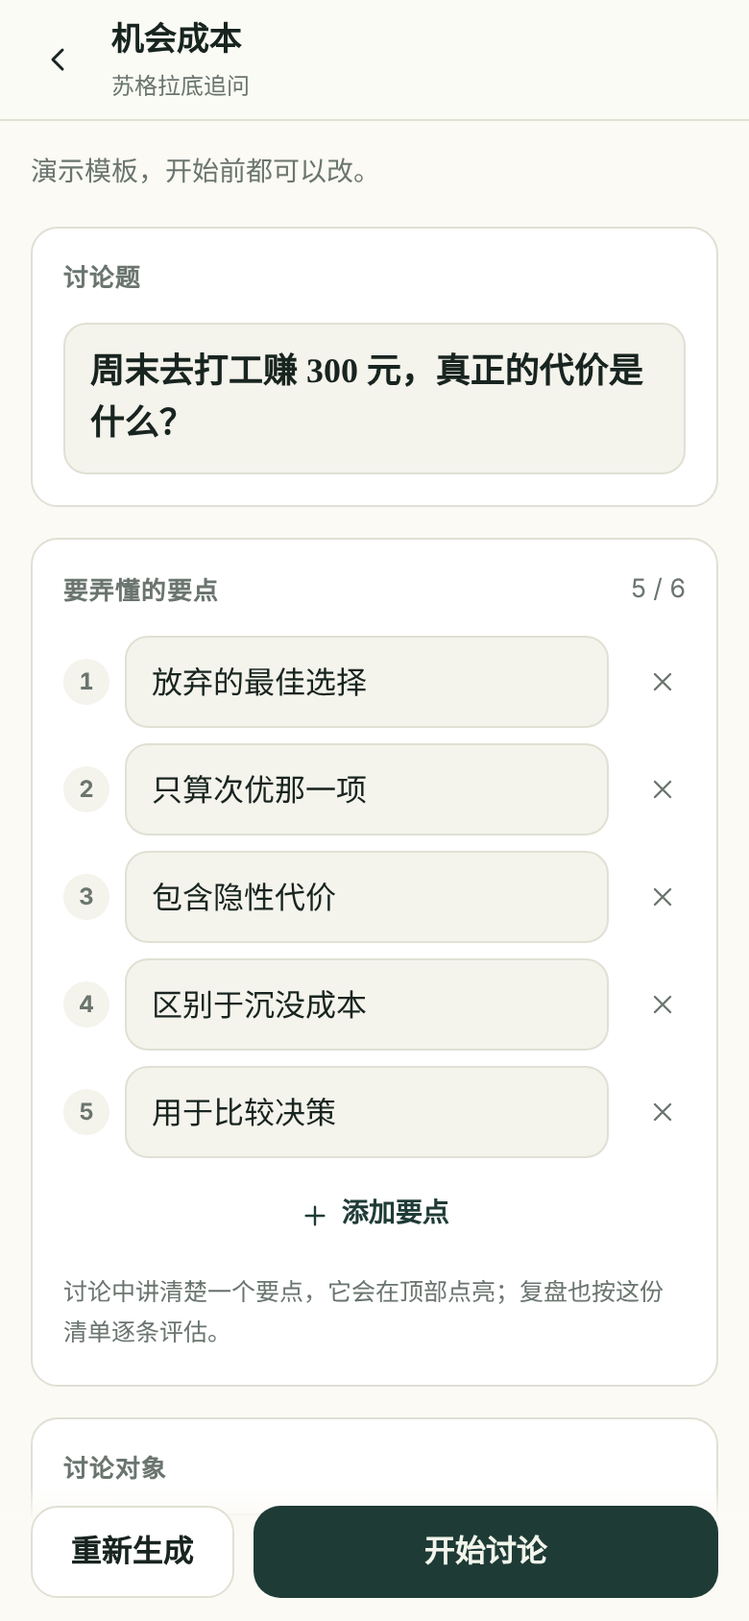
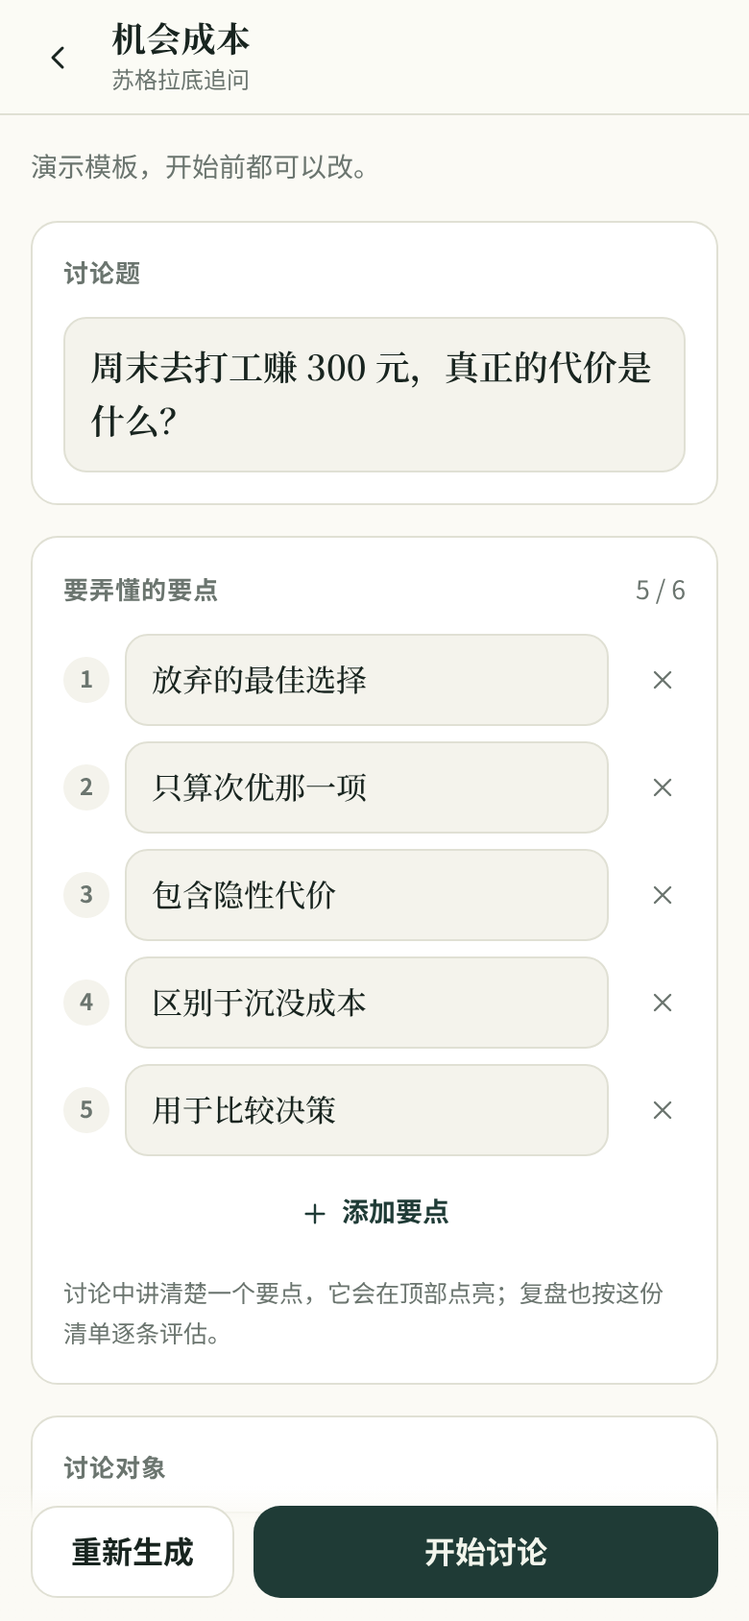
style: 输入框平滑光标；衬线与非衬线的分工
- 平滑光标（CaretField）：原生光标透明，用镜像元素量出光标位置，画一个会滑动、
  淡入淡出闪烁的光标；有选区或失去焦点时交还原生光标；尊重“减少动态效果”。
  用在讨论输入框、学习页的概念输入、小结卡。
- 字体分工：衬线只写“知识本身”（概念名、讨论题、要点、自己的小结、复盘结论、
  术语词条、检验题），对话和界面用无衬线。讨论题在讨论记录里像写在黑板上的题目。
- 字体栈补上安卓的 Noto Sans / Serif CJK SC；建立字号阶梯（--t-*）和衬线行距（--lh-serif）。
- 小结输入框字号从 15px 调到 16px（避免手机缩放）。
- 重新截取文档截图；AGENTS.md 记下字体分工和平滑光标的用法。

Closes #31

Claude-Session: https://claude.ai/code/session_01RzFBQam7wxXkvvADZrf93f

diff --git a/src/styles.css b/src/styles.css
@@ -22,8 +22,13 @@
   --warn: #8A5F12; --warn-soft: #F6EBD3;
   --bad: #A2432D; --bad-soft: #F7E0D8;
   --shadow: 0 1px 2px rgb(24 36 31 / 6%), 0 8px 24px rgb(24 36 31 / 6%);
-  --f-body: "PingFang SC", "HarmonyOS Sans SC", "MiSans", "Noto Sans SC", "Microsoft YaHei", system-ui, sans-serif;
-  --f-display: "Noto Serif SC", "Source Han Serif SC", "Songti SC", "STSong", serif;
+  /* 字体分工：衬线（宋体）写“知识本身”——概念、讨论题、要点、自己的小结、复盘结论、术语、检验题；
+     无衬线（黑体）写对话和界面。只用系统字体：App 要离线可用。Noto * CJK SC 是安卓上的名字。 */
+  --f-body: "PingFang SC", "HarmonyOS Sans SC", "MiSans", "Noto Sans CJK SC", "Noto Sans SC", "Source Han Sans SC", "Microsoft YaHei", system-ui, sans-serif;
+  --f-display: "Noto Serif CJK SC", "Noto Serif SC", "Source Han Serif SC", "Songti SC", "STSong", "SimSun", serif;
+  /* 字号阶梯（约 1.2 倍）；衬线正文比无衬线多一点行距 */
+  --t-xs: 12.5px; --t-sm: 14px; --t-md: 16px; --t-lg: 18px; --t-xl: 22px; --t-2xl: 28px; --t-3xl: 34px;
+  --lh-sans: 1.65; --lh-serif: 1.85;
   --r: 14px;
   --tab-h: 62px;
   color-scheme: light;
@@ -73,7 +78,7 @@ code { font-size: .9em; background: var(--bg); padding: 1px 5px; border-radius: 
 .session-top .topbar { position: static; border-bottom: 0; background: transparent; backdrop-filter: none; }
 .topbar-pad { width: 44px; }
 .topbar-title { min-width: 0; padding-block: 8px; }
-.topbar-title h1 { font-size: 17px; font-weight: 650; white-space: nowrap; overflow: hidden; text-overflow: ellipsis; }
+.topbar-title h1 { font: 650 var(--t-lg)/1.35 var(--f-display); letter-spacing: .01em; white-space: nowrap; overflow: hidden; text-overflow: ellipsis; }
 .topbar-title p { font-size: 12px; color: var(--muted); white-space: nowrap; overflow: hidden; text-overflow: ellipsis; }
 .topbar-right { display: flex; gap: 4px; align-items: center; padding-right: 4px; }
 
@@ -107,6 +112,11 @@ code { font-size: .9em; background: var(--bg); padding: 1px 5px; border-radius: 
 .panel { background: var(--raised); border: 1px solid var(--line); border-radius: var(--r); padding: 16px; display: flex; flex-direction: column; gap: 12px; }
 .section-label { font-size: 13px; font-weight: 650; color: var(--muted); letter-spacing: .04em; }
 .lede { color: var(--muted); font-size: 14px; }
+.lede.topic { color: var(--ink); font: var(--t-md)/var(--lh-serif) var(--f-display); }
+/* 讨论题像写在黑板上的题目：居中、衬线，上面一行小字说明这是什么 */
+.topic-line { align-self: center; max-width: 34em; text-align: center; display: flex; flex-direction: column; gap: 4px; padding: 6px 12px 10px; }
+.topic-line small { font-size: var(--t-xs); color: var(--muted); letter-spacing: .08em; }
+.topic-line p { font: 600 var(--t-lg)/1.6 var(--f-display); text-wrap: balance; }
 .fineprint { font-size: 12.5px; color: var(--muted); line-height: 1.7; }
 .note { font-size: 13px; color: var(--muted); line-height: 1.7; }
 input, textarea, select { width: 100%; border: 1px solid var(--line); background: var(--bg); border-radius: 12px; padding: 11px 13px; font-size: 16px; line-height: 1.5; }
@@ -144,8 +154,8 @@ input:focus, textarea:focus, select:focus { outline: none; border-color: var(--b
 .brand { display: flex; align-items: center; gap: 8px; font-weight: 700; letter-spacing: .12em; font-size: 17px; }
 .brand-mark { display: grid; place-items: center; width: 30px; height: 30px; border-radius: 9px 9px 9px 3px; background: var(--brand); color: var(--brand-ink); font-family: var(--f-display); font-size: 20px; letter-spacing: 0; }
 .hero { display: flex; flex-direction: column; gap: 14px; padding-top: 8px; }
-.display { font: 700 32px/1.25 var(--f-display); letter-spacing: .02em; text-wrap: balance; }
-.concept-field input { font-size: 20px; padding: 15px 16px; background: var(--raised); border-radius: 16px; box-shadow: var(--shadow); border-color: transparent; }
+.display { font: 700 var(--t-3xl)/1.22 var(--f-display); letter-spacing: .03em; text-wrap: balance; }
+.concept-field input { font: 600 var(--t-xl)/1.4 var(--f-display); letter-spacing: .02em; padding: 15px 16px; background: var(--raised); border-radius: 16px; box-shadow: var(--shadow); border-color: transparent; }
 .chips { padding-bottom: 2px; }
 .chip { flex: none; font-size: 13px; padding: 6px 13px; border-radius: 20px; border: 1px solid var(--line); color: var(--muted); background: var(--surface); }
 .chip.on { border-color: var(--brand); color: var(--brand); background: color-mix(in srgb, var(--brand) 8%, var(--surface)); }
@@ -163,7 +173,8 @@ input:focus, textarea:focus, select:focus { outline: none; border-color: var(--b
 .banner.warm { background: var(--accent-soft); color: var(--accent); }
 
 /* ---------- 准备页 ---------- */
-.topic-input { font: 600 18px/1.55 var(--f-display); background: var(--bg); }
+.topic-input { font: 600 var(--t-lg)/1.6 var(--f-display); background: var(--bg); }
+.point-edit input { font: 500 var(--t-md)/1.5 var(--f-display); }
 .point-edit, .stage-list { list-style: none; margin: 0; padding: 0; display: flex; flex-direction: column; gap: 8px; }
 .point-edit li { display: flex; align-items: center; gap: 8px; }
 .num { flex: none; width: 24px; height: 24px; border-radius: 50%; display: grid; place-items: center; background: var(--bg); color: var(--muted); font-size: 12px; font-weight: 650; font-variant-numeric: tabular-nums; }
@@ -229,9 +240,9 @@ input:focus, textarea:focus, select:focus { outline: none; border-color: var(--b
 .reflect { border-radius: var(--r); padding: 14px; background: color-mix(in srgb, var(--lit) 60%, var(--raised)); border: 1px solid color-mix(in srgb, var(--lit-ink) 25%, transparent); display: flex; flex-direction: column; gap: 10px; }
 .reflect h3 { font: 700 16px var(--f-display); color: var(--lit-ink); }
 .reflect p { font-size: 14px; }
-.reflect textarea { background: var(--raised); font-size: 15px; }
-.reflect .mine { font-size: 15px; }
-.reflect .mine::before { content: "我的小结："; color: var(--muted); }
+.reflect textarea { background: var(--raised); font: var(--t-md)/var(--lh-serif) var(--f-display); }
+.reflect .mine { font: var(--t-md)/var(--lh-serif) var(--f-display); }
+.reflect .mine::before { content: "我的小结："; color: var(--muted); font: var(--t-sm) var(--f-body); }
 .reflect .feedback { background: var(--raised); border-radius: 10px; padding: 10px 12px; line-height: 1.75; }
 
 .composer { position: sticky; bottom: 0; z-index: 15; display: flex; flex-direction: column; gap: 8px; padding: 10px max(12px, env(safe-area-inset-right, 0px)) calc(10px + env(safe-area-inset-bottom, 0px)) max(12px, env(safe-area-inset-left, 0px)); background: color-mix(in srgb, var(--surface) 94%, transparent); backdrop-filter: blur(12px); border-top: 1px solid var(--line); }
@@ -247,6 +258,18 @@ input:focus, textarea:focus, select:focus { outline: none; border-color: var(--b
 .tool { flex: none; display: inline-flex; align-items: center; gap: 5px; font-size: 13px; padding: 6px 11px; border-radius: 18px; background: var(--bg); border: 1px solid var(--line); color: var(--ink); }
 .input-row { display: flex; align-items: flex-end; gap: 8px; }
 .input-row textarea { min-height: 46px; max-height: 160px; border-radius: 22px; padding: 11px 16px; background: var(--raised); }
+
+/* ---------- 平滑光标 ---------- */
+.caret-host { position: relative; display: block; min-width: 0; }
+.caret-host.grow { flex: 1; display: flex; }
+.caret-hidden { caret-color: transparent; }
+.smooth-caret { position: absolute; top: 0; left: 0; width: 2px; border-radius: 1px; background: var(--brand); pointer-events: none; opacity: 0;
+  transition: transform .11s cubic-bezier(.2, .8, .2, 1), height .11s; animation: caret-blink 1.1s ease-in-out infinite; }
+.smooth-caret.on { opacity: 1; }
+.smooth-caret.moving { animation: none; }
+.smooth-caret:not(.on) { animation: none; opacity: 0; transition: none; }
+@keyframes caret-blink { 0%, 45% { opacity: 1; } 60%, 85% { opacity: 0; } 100% { opacity: 1; } }
+@media (prefers-reduced-motion: reduce) { .smooth-caret { transition: none; animation: none; } }
 .send { flex: none; width: 46px; height: 46px; border-radius: 50%; display: grid; place-items: center; background: var(--brand); color: var(--brand-ink); }
 
 /* 底部操作面板 */
@@ -256,8 +279,10 @@ input:focus, textarea:focus, select:focus { outline: none; border-color: var(--b
 .sheet-grip { width: 36px; height: 4px; border-radius: 2px; background: var(--line); align-self: center; }
 .sheet-head { display: flex; justify-content: space-between; align-items: center; }
 .sheet-head h2 { font-size: 17px; }
+.term-sheet .sheet-head h2 { font: 650 var(--t-xl)/1.3 var(--f-display); letter-spacing: .03em; }
+.term-sheet .sheet-text { font: var(--t-md)/var(--lh-serif) var(--f-display); }
 .sheet-text { font-size: 15.5px; line-height: 1.8; }
-.quote { margin: 0; padding: 8px 12px; border-left: 3px solid var(--line); color: var(--muted); font-size: 14px; line-height: 1.7; background: var(--bg); border-radius: 0 10px 10px 0; }
+.quote { margin: 0; padding: 8px 12px; border-left: 3px solid var(--line); color: var(--muted); font: var(--t-sm)/1.8 var(--f-display); background: var(--bg); border-radius: 0 10px 10px 0; }
 .action-list { display: flex; flex-direction: column; border: 1px solid var(--line); border-radius: var(--r); overflow: hidden; background: var(--raised); }
 .action { display: flex; justify-content: space-between; align-items: center; min-height: 52px; padding: 0 14px; font-size: 16px; text-align: left; border-top: 1px solid var(--line); }
 .action:first-child { border-top: 0; }
@@ -269,7 +294,7 @@ input:focus, textarea:focus, select:focus { outline: none; border-color: var(--b
 /* ---------- 复盘与知识库 ---------- */
 .review-hero { display: flex; gap: 16px; align-items: center; padding: 6px 2px; }
 .review-hero.slim { padding: 0; }
-.display-sm { font: 600 18px/1.6 var(--f-display); text-wrap: pretty; }
+.display-sm { font: 600 var(--t-lg)/1.65 var(--f-display); text-wrap: pretty; }
 .review-hero small { display: block; margin-top: 6px; font-size: 12px; }
 .ring { flex: none; width: 84px; height: 84px; }
 .ring-track { fill: none; stroke: var(--bg); stroke-width: 8; }
@@ -279,6 +304,7 @@ input:focus, textarea:focus, select:focus { outline: none; border-color: var(--b
 .point-list { list-style: none; padding: 0; margin: 0; display: flex; flex-direction: column; gap: 12px; }
 .point-list li { display: grid; grid-template-columns: 56px 1fr; gap: 10px; align-items: baseline; }
 .point-list div { display: flex; flex-direction: column; }
+.point-list b { font: 600 var(--t-md)/1.5 var(--f-display); }
 .point-list span { font-size: 13px; color: var(--muted); }
 .pill { justify-self: start; font-size: 11.5px; font-weight: 650; padding: 2px 8px; border-radius: 6px; white-space: nowrap; }
 .pill.mastered { background: var(--good-soft); color: var(--good); }
@@ -291,7 +317,7 @@ input:focus, textarea:focus, select:focus { outline: none; border-color: var(--b
 .fix .right .icon { margin-top: 5px; color: var(--good); }
 .quiz { list-style: none; padding: 0; margin: 0; display: flex; flex-direction: column; gap: 20px; counter-reset: q; }
 .quiz li { display: flex; flex-direction: column; gap: 8px; counter-increment: q; }
-.quiz .q { font-weight: 600; font-size: 15px; }
+.quiz .q { font: 600 var(--t-md)/1.7 var(--f-display); }
 .quiz .q::before { content: counter(q) ". "; color: var(--muted); }
 .opts { display: flex; flex-direction: column; gap: 6px; }
 .opt { display: flex; gap: 10px; align-items: baseline; text-align: left; min-height: 46px; padding: 10px 14px; border-radius: 12px; border: 1px solid var(--line); background: var(--surface); font-size: 15px; }
@@ -348,7 +374,7 @@ input:focus, textarea:focus, select:focus { outline: none; border-color: var(--b
 .term-relation b { font-size: 12.5px; color: var(--muted); font-weight: 600; }
 .stack-sm { display: flex; flex-direction: column; gap: 8px; }
 .glossary { margin: 0; display: flex; flex-direction: column; gap: 12px; }
-.glossary dt { font-weight: 650; }
+.glossary dt { font: 650 var(--t-lg)/1.4 var(--f-display); letter-spacing: .02em; }
 .glossary dd { margin: 2px 0 0; font-size: 14px; line-height: 1.7; color: var(--ink); display: flex; flex-direction: column; gap: 2px; }
 .glossary dd small { color: var(--muted); font-size: 12.5px; }
 

diff --git a/src/components/SmoothCaret.tsx b/src/components/SmoothCaret.tsx
@@ -1,0 +1,83 @@
+// 平滑光标：输入框里的光标移动时滑过去，闪烁时淡入淡出（类似 VS Code 的 smooth caret）。
+// 浏览器的原生光标没法加动画，所以把它设成透明，再在同样的位置画一个。
+// 位置用“镜像元素”测量：复制输入框的排版样式，把光标前的文字放进去，量出光标所在的坐标。
+// 有选区、失去焦点时交还原生光标；尊重“减少动态效果”（直接跳到位置、不闪烁）。
+import { useCallback, useEffect, useRef, useState, type ReactNode, type RefObject } from 'react';
+
+type Field = HTMLTextAreaElement | HTMLInputElement;
+const COPY = ['boxSizing', 'width', 'borderTopWidth', 'borderRightWidth', 'borderBottomWidth', 'borderLeftWidth', 'borderStyle', 'paddingTop', 'paddingRight', 'paddingBottom', 'paddingLeft',
+  'fontStyle', 'fontVariant', 'fontWeight', 'fontStretch', 'fontSize', 'lineHeight', 'fontFamily', 'textAlign', 'textTransform', 'textIndent', 'letterSpacing', 'wordSpacing', 'tabSize', 'wordBreak'] as const;
+
+function measure(el: Field, pos: number) {
+  const cs = getComputedStyle(el);
+  const mirror = document.createElement('div');
+  const single = el.nodeName === 'INPUT';
+  for (const p of COPY) mirror.style[p] = cs[p];
+  Object.assign(mirror.style, { position: 'absolute', visibility: 'hidden', top: '0', left: '-9999px', height: 'auto', overflow: 'hidden', whiteSpace: single ? 'pre' : 'pre-wrap', overflowWrap: single ? 'normal' : 'break-word' });
+  mirror.textContent = el.value.slice(0, pos);
+  const mark = document.createElement('span');
+  mark.textContent = el.value.slice(pos, pos + 1) || '';
+  mirror.appendChild(mark);
+  document.body.appendChild(mirror);
+  const size = parseFloat(cs.fontSize);
+  const height = Math.max(size * 1.15, Math.min(mark.offsetHeight, size * 1.5));
+  const top = mark.offsetTop + (mark.offsetHeight - height) / 2;
+  const box = { x: mark.offsetLeft - el.scrollLeft, y: top - el.scrollTop, h: height };
+  mirror.remove();
+  return box;
+}
+
+export function useSmoothCaret(ref: RefObject<Field | null>) {
+  const [box, setBox] = useState<{ x: number; y: number; h: number; on: boolean; moving: boolean }>({ x: 0, y: 0, h: 0, on: false, moving: false });
+  const frame = useRef(0), rest = useRef<ReturnType<typeof setTimeout> | undefined>(undefined);
+  const sync = useCallback(() => {
+    cancelAnimationFrame(frame.current);
+    frame.current = requestAnimationFrame(() => {
+      const el = ref.current;
+      if (!el) return;
+      const focused = document.activeElement === el;
+      const collapsed = el.selectionStart !== null && el.selectionStart === el.selectionEnd;
+      el.classList.toggle('caret-hidden', focused && collapsed);
+      if (!focused || !collapsed) { setBox(b => ({ ...b, on: false })); return; }
+      const m = measure(el, el.selectionStart ?? 0);
+      // 超出可见区域时不画（例如滚动到别处）
+      const visible = m.y + m.h > 0 && m.y < el.clientHeight + 2 && m.x >= -1 && m.x <= el.clientWidth + 2;
+      setBox({ ...m, on: visible, moving: true });
+      clearTimeout(rest.current);
+      rest.current = setTimeout(() => setBox(b => ({ ...b, moving: false })), 450);
+    });
+  }, [ref]);
+
+  useEffect(() => {
+    const el = ref.current;
+    if (!el) return;
+    const events = ['input', 'keydown', 'keyup', 'pointerup', 'focus', 'blur', 'scroll', 'select', 'compositionupdate', 'compositionend'];
+    events.forEach(e => el.addEventListener(e, sync));
+    document.addEventListener('selectionchange', sync);
+    window.addEventListener('resize', sync);
+    const ro = typeof ResizeObserver === 'function' ? new ResizeObserver(sync) : null;
+    ro?.observe(el);
+    return () => {
+      events.forEach(e => el.removeEventListener(e, sync));
+      document.removeEventListener('selectionchange', sync);
+      window.removeEventListener('resize', sync);
+      ro?.disconnect();
+      cancelAnimationFrame(frame.current); clearTimeout(rest.current);
+      el.classList.remove('caret-hidden');
+    };
+  }, [ref, sync]);
+
+  return box;
+}
+
+// 包住一个输入框：<CaretField fieldRef={ref}><textarea ref={ref} … /></CaretField>
+export function CaretField({ fieldRef, className = '', children }: { fieldRef: RefObject<Field | null>; className?: string; children: ReactNode }) {
+  const box = useSmoothCaret(fieldRef);
+  return (
+    <span className={'caret-host ' + className}>
+      {children}
+      <i aria-hidden="true" className={'smooth-caret' + (box.on ? ' on' : '') + (box.moving ? ' moving' : '')}
+        style={{ transform: `translate3d(${box.x}px, ${box.y}px, 0)`, height: box.h }} />
+    </span>
+  );
+}

diff --git a/src/screens/Session.tsx b/src/screens/Session.tsx
@@ -3,6 +3,7 @@ import { MODES } from '../../shared/modes.ts';
 import type { ChatMessage, Entry, Reflection } from '../../shared/types.ts';
 import { QUICK, addReflection, aiTakeover, callOn, currentTurn, dropReflection, finish, generateSeat, hint, nextSpeaker, openTerm, passTurn, pickSeat, quick, retryAI, send, setReflectionDraft, skipSeat, startRoom, submitReflection } from '../actions.ts';
 import { Empty, ErrorBanner, Icon, Sheet } from '../components/ui.tsx';
+import { CaretField } from '../components/SmoothCaret.tsx';
 import { cancelAI } from '../lib/ai.ts';
 import { seatName } from '../lib/debate.ts';
 import { exportSession } from '../lib/exporter.ts';
@@ -81,7 +82,7 @@ export function Session() {
         </Sheet>
       )}
       {ui.term && (
-        <Sheet title={ui.term.term} onClose={() => update(st => { st.ui.term = null; })}>
+        <Sheet title={ui.term.term} className="term-sheet" onClose={() => update(st => { st.ui.term = null; })}>
           {ui.term.definition ? (
             <>
               <p className="sheet-text">{ui.term.definition}</p>
@@ -267,9 +268,11 @@ function DraftInput({ s, placeholder }: { s: S; placeholder: string }) {
   const submit = () => send(s.draft);
   return (
     <div className="input-row">
-      <textarea id="draft" ref={ref} rows={1} value={s.draft} maxLength={s.room ? 2000 : 4000} aria-label="你的发言" placeholder={placeholder}
-        onChange={e => update(st => { st.session!.draft = e.target.value; })}
-        onKeyDown={e => { if (e.key === 'Enter' && !e.shiftKey && !e.nativeEvent.isComposing && window.matchMedia('(pointer: fine)').matches) { e.preventDefault(); submit(); } }} />
+      <CaretField fieldRef={ref} className="grow">
+        <textarea id="draft" ref={ref} rows={1} value={s.draft} maxLength={s.room ? 2000 : 4000} aria-label="你的发言" placeholder={placeholder}
+          onChange={e => update(st => { st.session!.draft = e.target.value; })}
+          onKeyDown={e => { if (e.key === 'Enter' && !e.shiftKey && !e.nativeEvent.isComposing && window.matchMedia('(pointer: fine)').matches) { e.preventDefault(); submit(); } }} />
+      </CaretField>
       <button className="send" aria-label="发送" disabled={!!ui.busy || !s.draft.trim()} onClick={submit}><Icon name="send" /></button>
     </div>
   );
@@ -314,7 +317,10 @@ function WithTerms({ text, terms }: { text: string; terms?: string[] }) {
 }
 
 function EntryView({ m, s, showTip }: { m: Entry; s: S; showTip: boolean }) {
-  if (m.kind === 'sys') return <div className="sysline">{m.text}</div>;
+  if (m.kind === 'sys') {
+    const topic = m.text.match(/^(讨论题|辩题)：([\s\S]+)$/);
+    return topic ? <div className="topic-line"><small>{topic[1]}</small><p>{topic[2]}</p></div> : <div className="sysline">{m.text}</div>;
+  }
   if (m.kind === 'reflect') return <ReflectCard m={m} concept={s.concept} />;
   const me = !!m.human;
   const peer = isPeer(m);
@@ -346,6 +352,7 @@ function EntryView({ m, s, showTip }: { m: Entry; s: S; showTip: boolean }) {
 
 function ReflectCard({ m, concept }: { m: Reflection; concept: string }) {
   const { ui, session } = useApp();
+  const draftRef = useRef<HTMLTextAreaElement>(null);
   return (
     <section className="reflect" aria-label="小结卡">
       <h3>停一下，用自己的话说说</h3>
@@ -357,7 +364,7 @@ function ReflectCard({ m, concept }: { m: Reflection; concept: string }) {
       ) : (
         <>
           <p className="muted">你现在怎么理解「{concept}」？一两句话就好。{session?.room && '小结只有你能看到。'}</p>
-          <textarea value={m.draft} rows={2} maxLength={1000} aria-label="我的小结" onChange={e => setReflectionDraft(m.id, e.target.value)} />
+          <CaretField fieldRef={draftRef}><textarea ref={draftRef} value={m.draft} rows={2} maxLength={1000} aria-label="我的小结" onChange={e => setReflectionDraft(m.id, e.target.value)} /></CaretField>
           <div className="row end">
             <button className="ghost small" onClick={() => dropReflection(m.id)}>跳过</button>
             <button className="primary small" disabled={!!ui.busy || !m.draft.trim()} onClick={() => submitReflection(m.id)}>提交小结</button>

diff --git a/src/screens/Learn.tsx b/src/screens/Learn.tsx
@@ -1,13 +1,16 @@
 import { MODES, MODE_ORDER } from '../../shared/modes.ts';
 import type { ModeId } from '../../shared/types.ts';
 import { prepare, openCard } from '../actions.ts';
+import { useRef } from 'react';
 import { BusyStrip, ErrorBanner, Icon } from '../components/ui.tsx';
+import { CaretField } from '../components/SmoothCaret.tsx';
 import { go, update, useApp } from '../store.ts';
 
 const EXAMPLES = ['机会成本', '贝叶斯定理', '边际效用', '认知失调', '光速不变原理', '梯度下降'];
 const GLYPH: Record<ModeId, string> = { socratic: '问', roundtable: '圆', teach: '讲', debate: '辩' };
 
 export function Learn() {
+  const conceptRef = useRef<HTMLInputElement>(null);
   const { config, library, session, ui, ai } = useApp();
   const due = library.filter(c => c.due <= Date.now());
   const unfinished = session && !session.finished;
@@ -35,9 +38,11 @@ export function Learn() {
           <h2 className="display">今天想弄懂<br />什么？</h2>
           <label className="concept-field">
             <span className="sr-only">想弄懂的概念</span>
-            <input id="concept" value={config.concept} maxLength={80} placeholder="写下一个概念，比如：机会成本" disabled={busy}
-              onChange={e => update(s => { s.config.concept = e.target.value; })}
-              onKeyDown={e => { if (e.key === 'Enter' && !e.nativeEvent.isComposing) prepare(); }} />
+            <CaretField fieldRef={conceptRef}>
+              <input id="concept" ref={conceptRef} value={config.concept} maxLength={80} placeholder="写下一个概念，比如：机会成本" disabled={busy}
+                onChange={e => update(s => { s.config.concept = e.target.value; })}
+                onKeyDown={e => { if (e.key === 'Enter' && !e.nativeEvent.isComposing) prepare(); }} />
+            </CaretField>
           </label>
           <div className="chips scroll-x" role="list">
             {EXAMPLES.map(c => <button role="listitem" key={c} className={'chip' + (config.concept === c ? ' on' : '')} disabled={busy} onClick={() => update(s => { s.config.concept = c; })}>{c}</button>)}

diff --git a/src/components/ui.tsx b/src/components/ui.tsx
@@ -65,7 +65,7 @@ export function TabBar() {
   );
 }
 
-export function Sheet({ title, onClose, children }: { title: string; onClose: () => void; children: ReactNode }) {
+export function Sheet({ title, onClose, children, className = '' }: { title: string; onClose: () => void; children: ReactNode; className?: string }) {
   const ref = useRef<HTMLDivElement>(null);
   useEffect(() => {
     const k = (e: KeyboardEvent) => { if (e.key === 'Escape') onClose(); };
@@ -74,7 +74,7 @@ export function Sheet({ title, onClose, children }: { title: string; onClose: ()
   }, [onClose]);
   return (
     <div className="sheet-backdrop" onClick={onClose}>
-      <div className="sheet" role="dialog" aria-modal="true" aria-label={title} tabIndex={-1} ref={ref} onClick={e => e.stopPropagation()}>
+      <div className={'sheet ' + className} role="dialog" aria-modal="true" aria-label={title} tabIndex={-1} ref={ref} onClick={e => e.stopPropagation()}>
         <div className="sheet-grip" aria-hidden="true" />
         <div className="sheet-head"><h2>{title}</h2><button className="icon-btn" aria-label="关闭" onClick={onClose}><Icon name="close" /></button></div>
         {children}

diff --git a/src/screens/Library.tsx b/src/screens/Library.tsx
@@ -61,7 +61,7 @@ export function CardView() {
     <div className="screen card-view">
       <TopBar title={c.concept} sub={`${MODES[c.mode].name} · 已复习 ${c.reviews.length} 次`} back="library" />
       <div className="stack pad">
-        <p className="lede">{c.topic}</p>
+        <p className="lede topic">{c.topic}</p>
         {c.quiz.length > 0 && <section className="panel"><h3 className="section-label">先凭记忆作答</h3><Quiz id={'c:' + c.id} items={c.quiz} /></section>}
         {open ? (
           <>

diff --git a/AGENTS.md b/AGENTS.md
@@ -65,6 +65,8 @@ cd worker && npm install && npm run dev   # 本地运行后端（先把 .dev.var
 - 先按 390px 宽的手机设计，再看桌面。页面不能出现横向滚动。
 - 可点区域至少 44×44px；主要操作放在底部（`.dock` 或 `.composer`），单手可达。
 - 颜色只用 `styles.css` 里的令牌（`--brand`、`--ink`、`--muted` 等），浅色和深色都要看一遍，不写死颜色。
+- 字体分工：衬线（`--f-display`）只用于“知识本身”：概念名、讨论题、要点、学习者自己的小结、复盘结论、术语词条、检验题；对话气泡、按钮、标签、提示用无衬线（`--f-body`）。字号用 `--t-*` 阶梯，衬线正文行距用 `--lh-serif`。只用系统字体，不引入网络字体（App 要离线可用）。
+- 新的多行输入框用 `CaretField` 包一层，和其他输入框一样有平滑光标。
 - 文案站在用户一侧，说清楚会发生什么：按钮写动作（“开始讨论”），错误写原因和办法，不道歉、不含糊。不用 emoji 当图标。
 - 尊重 `prefers-reduced-motion`；输入框字号不小于 16px（避免手机缩放）。
 - 改了界面，在手机宽度下截图检查，并把截图附在 PR 里。

diff --git a/docs/dev/architecture.md b/docs/dev/architecture.md
@@ -73,3 +73,12 @@ Worker 与本机服务的差别：
 ```
 
 见[路线图](../product/roadmap)和[密钥与隐私](../guide/api-and-privacy)。
+
+## 界面字体
+
+- 衬线（宋体，`--f-display`）写“知识本身”：概念名、讨论题、要点、学习者自己的小结、复盘结论、术语词条、检验题。一段文字变成要留下来的知识时，就换成衬线。
+- 无衬线（黑体，`--f-body`）写对话和界面：发言气泡、按钮、标签、提示。
+- 只用系统字体：安卓上是 Noto Sans / Serif CJK，苹果上是苹方和宋体。App 要离线可用，不引入网络字体。
+- 输入框用 `components/SmoothCaret.tsx` 的平滑光标：原生光标设为透明，用镜像元素测出光标坐标，再画一个会滑动、淡入淡出闪烁的光标；有选区或失去焦点时交还原生光标。
+
+![左：讨论页（光标在输入框里）；中：术语卡片（深色）；右：复盘](/screenshots/typography.png)
